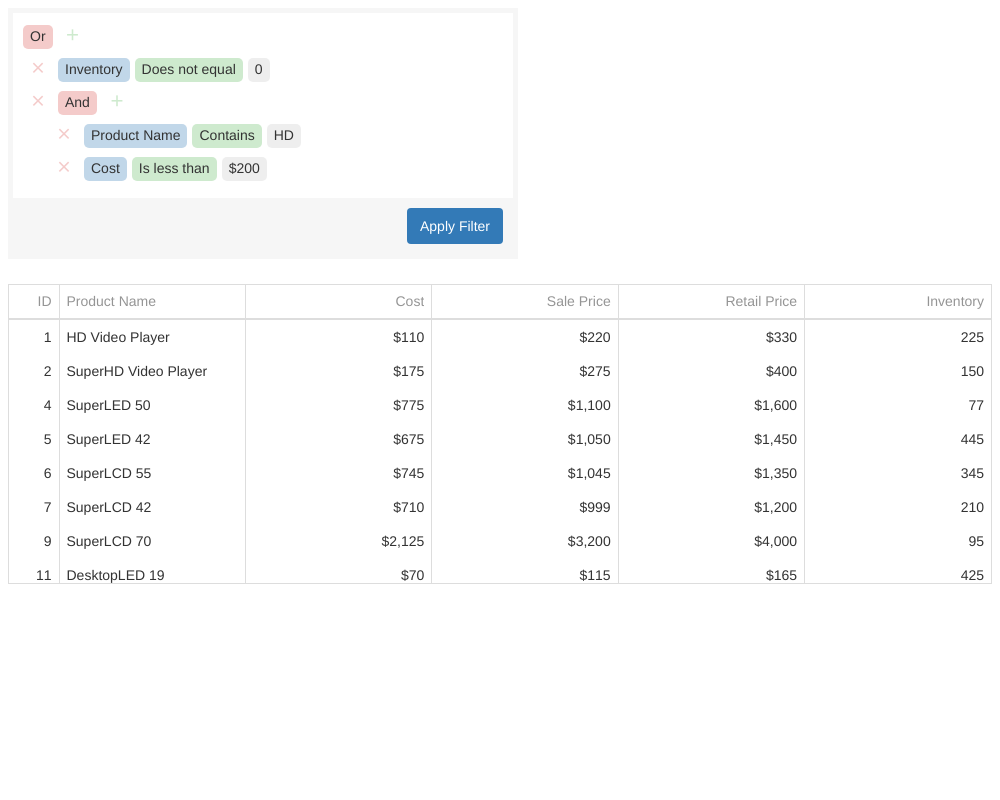
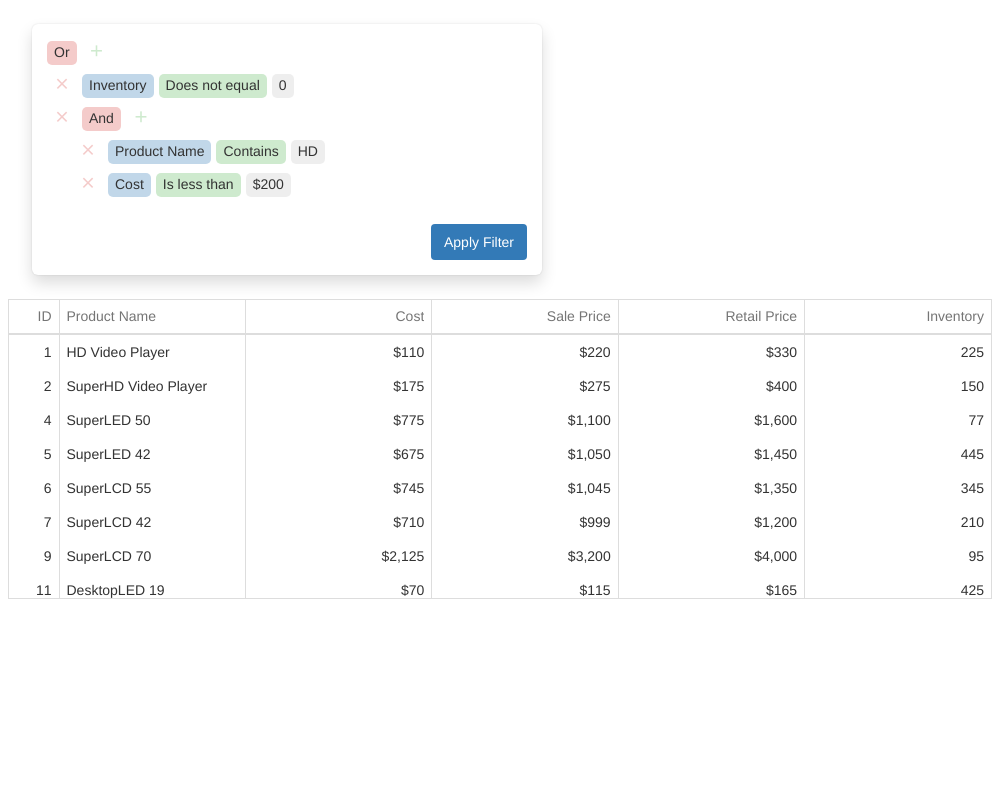
🎨 Fluent: Redesign FilterBuilder Demo group (#2949)
* Redesign FilterBuilder demos

* add etalons

* Padding fix

* new etalon

* Add margin to all demos

* Fix customization demo

* Replace etalons

---------

diff --git a/JSDemos/Demos/FilterBuilder/WithList/Vue/App.vue b/JSDemos/Demos/FilterBuilder/WithList/Vue/App.vue
@@ -64,14 +64,17 @@ export default {
 </script>
 <style scoped>
 .filter-container {
-  background-color: rgba(191, 191, 191, 0.15);
-  width: 55%;
+  background-color: transparent;
+  box-shadow: 0 8px 16px 0 rgba(0, 0, 0, 0.14), 0 0 2px 0 rgba(0, 0, 0, 0.12);
+  border-radius: 6px;
+  width: 45%;
   float: left;
-  margin-bottom: 25px;
+  margin: 24px;
   height: 430px;
 }
 
 .dx-filterbuilder {
+  background-color: transparent;
   padding: 10px;
   height: 360px;
   margin: 5px;

diff --git a/JSDemos/Demos/FilterBuilder/WithList/Angular/app/app.component.css b/JSDemos/Demos/FilterBuilder/WithList/Angular/app/app.component.css
@@ -1,12 +1,15 @@
 ::ng-deep .filter-container {
-  background-color: rgba(191, 191, 191, 0.15);
-  width: 55%;
+  background-color: transparent;
+  box-shadow: 0 8px 16px 0 rgba(0, 0, 0, 0.14), 0 0 2px 0 rgba(0, 0, 0, 0.12);
+  border-radius: 6px;
+  width: 45%;
   float: left;
-  margin-bottom: 25px;
+  margin: 24px;
   height: 430px;
 }
 
 ::ng-deep .dx-filterbuilder {
+  background-color: transparent;
   padding: 10px;
   height: 360px;
   margin: 5px;

diff --git a/JSDemos/Demos/FilterBuilder/WithList/React/styles.css b/JSDemos/Demos/FilterBuilder/WithList/React/styles.css
@@ -1,12 +1,15 @@
 .filter-container {
-  background-color: rgba(191, 191, 191, 0.15);
-  width: 55%;
+  background-color: transparent;
+  box-shadow: 0 8px 16px 0 rgba(0, 0, 0, 0.14), 0 0 2px 0 rgba(0, 0, 0, 0.12);
+  border-radius: 6px;
+  width: 45%;
   float: left;
-  margin-bottom: 25px;
+  margin: 24px;
   height: 430px;
 }
 
 .dx-filterbuilder {
+  background-color: transparent;
   padding: 10px;
   height: 360px;
   margin: 5px;

diff --git a/JSDemos/Demos/FilterBuilder/WithList/jQuery/styles.css b/JSDemos/Demos/FilterBuilder/WithList/jQuery/styles.css
@@ -1,12 +1,15 @@
 .filter-container {
-  background-color: rgba(191, 191, 191, 0.15);
-  width: 55%;
+  background-color: transparent;
+  box-shadow: 0 8px 16px 0 rgba(0, 0, 0, 0.14), 0 0 2px 0 rgba(0, 0, 0, 0.12);
+  border-radius: 6px;
+  width: 45%;
   float: left;
-  margin-bottom: 25px;
+  margin: 24px;
   height: 430px;
 }
 
 .dx-filterbuilder {
+  background-color: transparent;
   padding: 10px;
   height: 360px;
   margin: 5px;

diff --git a/MVCDemos/Content/DemosStyles/FilterBuilder/WithList.css b/MVCDemos/Content/DemosStyles/FilterBuilder/WithList.css
@@ -1,5 +1,7 @@
 .filter-container {
-    background-color: rgba(191, 191, 191, 0.15);
+    background-color: transparent;
+    box-shadow: 0 8px 16px 0 rgba(0, 0, 0, 0.14), 0 0 2px 0 rgba(0, 0, 0, 0.12);
+    border-radius: 6px;
     width: 55%;
     float: left;
     margin-bottom: 25px;
@@ -7,6 +9,7 @@
 }
 
 .dx-filterbuilder {
+    background-color: transparent;
     padding: 10px;
     height: 360px;
     margin: 5px;

diff --git a/NetCoreDemos/wwwroot/css/DemosStyles/FilterBuilder/WithList.css b/NetCoreDemos/wwwroot/css/DemosStyles/FilterBuilder/WithList.css
@@ -1,5 +1,7 @@
 .filter-container {
-    background-color: rgba(191, 191, 191, 0.15);
+    background-color: transparent;
+    box-shadow: 0 8px 16px 0 rgba(0, 0, 0, 0.14), 0 0 2px 0 rgba(0, 0, 0, 0.12);
+    border-radius: 6px;
     width: 55%;
     float: left;
     margin-bottom: 25px;
@@ -7,6 +9,7 @@
 }
 
 .dx-filterbuilder {
+    background-color: transparent;
     padding: 10px;
     height: 360px;
     margin: 5px;

diff --git a/JSDemos/Demos/FilterBuilder/WithDataGrid/Vue/App.vue b/JSDemos/Demos/FilterBuilder/WithDataGrid/Vue/App.vue
@@ -70,13 +70,16 @@ export default {
 </script>
 <style scoped>
 .filter-container {
-  background-color: rgba(191, 191, 191, 0.15);
+  background-color: transparent;
+  box-shadow: 0 8px 16px 0 rgba(0, 0, 0, 0.14), 0 0 2px 0 rgba(0, 0, 0, 0.12);
+  border-radius: 6px;
   padding: 5px;
   width: 500px;
-  margin-bottom: 25px;
+  margin: 24px;
 }
 
 .dx-filterbuilder {
+  background-color: transparent;
   padding: 10px;
 }
 

diff --git a/JSDemos/Demos/FilterBuilder/WithDataGrid/Angular/app/app.component.css b/JSDemos/Demos/FilterBuilder/WithDataGrid/Angular/app/app.component.css
@@ -1,11 +1,14 @@
 ::ng-deep .filter-container {
-  background-color: rgba(191, 191, 191, 0.15);
+  background-color: transparent;
+  box-shadow: 0 8px 16px 0 rgba(0, 0, 0, 0.14), 0 0 2px 0 rgba(0, 0, 0, 0.12);
+  border-radius: 6px;
   padding: 5px;
   width: 500px;
-  margin-bottom: 25px;
+  margin: 24px;
 }
 
 ::ng-deep .dx-filterbuilder {
+  background-color: transparent;
   padding: 10px;
 }
 

diff --git a/MVCDemos/Content/DemosStyles/FilterBuilder/WithDataGrid.css b/MVCDemos/Content/DemosStyles/FilterBuilder/WithDataGrid.css
@@ -1,11 +1,14 @@
 .filter-container {
-    background-color: rgba(191, 191, 191, 0.15);
+    background-color: transparent;
+    box-shadow: 0 8px 16px 0 rgba(0, 0, 0, 0.14), 0 0 2px 0 rgba(0, 0, 0, 0.12);
+    border-radius: 6px;
     padding: 5px;
     width: 500px;
     margin-bottom: 25px;
 }
 
 .dx-filterbuilder {
+    background-color: transparent;
     padding: 10px;
 }
 

diff --git a/NetCoreDemos/wwwroot/css/DemosStyles/FilterBuilder/WithDataGrid.css b/NetCoreDemos/wwwroot/css/DemosStyles/FilterBuilder/WithDataGrid.css
@@ -1,11 +1,14 @@
 .filter-container {
-    background-color: rgba(191, 191, 191, 0.15);
+    background-color: transparent;
+    box-shadow: 0 8px 16px 0 rgba(0, 0, 0, 0.14), 0 0 2px 0 rgba(0, 0, 0, 0.12);
+    border-radius: 6px;
     padding: 5px;
     width: 500px;
     margin-bottom: 25px;
 }
 
 .dx-filterbuilder {
+    background-color: transparent;
     padding: 10px;
 }
 

diff --git a/JSDemos/Demos/FilterBuilder/WithDataGrid/React/styles.css b/JSDemos/Demos/FilterBuilder/WithDataGrid/React/styles.css
@@ -1,11 +1,14 @@
 .filter-container {
-  background-color: rgba(191, 191, 191, 0.15);
+  background-color: transparent;
+  box-shadow: 0 8px 16px 0 rgba(0, 0, 0, 0.14), 0 0 2px 0 rgba(0, 0, 0, 0.12);
+  border-radius: 6px;
   padding: 5px;
   width: 500px;
-  margin-bottom: 25px;
+  margin: 24px;
 }
 
 .dx-filterbuilder {
+  background-color: transparent;
   padding: 10px;
 }
 

diff --git a/JSDemos/Demos/FilterBuilder/WithDataGrid/jQuery/styles.css b/JSDemos/Demos/FilterBuilder/WithDataGrid/jQuery/styles.css
@@ -1,11 +1,14 @@
 .filter-container {
-  background-color: rgba(191, 191, 191, 0.15);
+  background-color: transparent;
+  box-shadow: 0 8px 16px 0 rgba(0, 0, 0, 0.14), 0 0 2px 0 rgba(0, 0, 0, 0.12);
+  border-radius: 6px;
   padding: 5px;
   width: 500px;
-  margin-bottom: 25px;
+  margin: 24px;
 }
 
 .dx-filterbuilder {
+  background-color: transparent;
   padding: 10px;
 }
 
